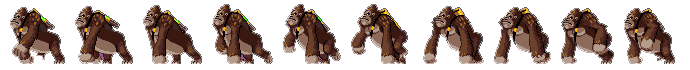
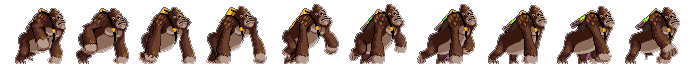
added new bullet, fixed rendering issue, monkey's action faster per upgrade as well as acttack speed(verify)

diff --git a/Classes.js b/Classes.js
@@ -94,8 +94,14 @@ World = Class.extend({
 	// new data structure
 	spawn: function(type, position) {
 		var mon = characterData.monsters[type];
+		if (type=="Gorilla") {
+			var m = new monster(mon.hp, positionData[position].x
+			, positionData[position].y-80/720*canvas.height, mon.damage,
+			mon.attackRate, mon.attackRange, mon.bulletType, (position>1 ? -mon.vx: mon.vx), mon.reward, type, mon.point);
+		}else{
 		var m = new monster(mon.hp, positionData[position].x, positionData[position].y, mon.damage,
 			mon.attackRate, mon.attackRange, mon.bulletType, (position>1 ? -mon.vx: mon.vx), mon.reward, type, mon.point);
+		}
 		this.objects[position].push(m);
 		audio.play(type);
 	},
@@ -141,21 +147,18 @@ World = Class.extend({
       renderingEngine.createMessage((50/1200*canvas.width).toString()+"px Georgia", 3,  0.33*canvas.width, 0.93*canvas.height, "You Need More Gold");
       return;
     }else{
+			monkeySpeed+=1;
 			this.money -= this.upgradeCost;
       this.upgradeCost *= 1.2;
 			this.upgradeCost = Math.ceil(this.upgradeCost/10)*10;
       ctx.fillRect(0,0,canvas.width, canvas.height);
       ctx.fillStyle = "#000000";
       ctx.fillRect(1,0.125*canvas.height+1,canvas.width-2, 0.6875*canvas.height-1);
-			characterData.monkeys["Soldier"].hp *= 1.2;
-			characterData.monkeys["Soldier"].damage *= 1.2;
-			characterData.monkeys["Soldier"].attackRate *= 1.2;
+			characterData.monkeys["Soldier"].attackRate /= 10;
 			characterData.monkeys["Soldier"].cost = Math.ceil(characterData.monkeys["Soldier"].cost*1.2/10)*10;
 			for (var i=0; i<6; i++) {
 				if (this.tree.slots[i].monkey) {
-					this.tree.slots[i].monkey.hp *= 1.2;
-					this.tree.slots[i].monkey.damage *= 1.2;
-					this.tree.slots[i].monkey.attackRate *= 1.2;
+					this.tree.slots[i].monkey.attackRate /= 10;
 				}
 			}
 			
@@ -447,7 +450,7 @@ monkey = armedBeing.extend({
   type : null,
   
   init: function(hp, slotNumber, damage, attackRate, attackRange, bulletType, cost, type) {
-    this._super(hp, SLOTS_POSITION_X[slotNumber], SLOTS_POSITION_Y[slotNumber],
+    this._super(hp, SLOTS_POSITION_X[slotNumber]+0.005*canvas.width*(slotNumber<3?-1:1), SLOTS_POSITION_Y[slotNumber],
     damage, attackRate, attackRange, bulletType);
     this.slotNumber = slotNumber;
     this.cost = cost;
@@ -508,7 +511,8 @@ monster = armedBeing.extend({
   type: null,
   render:null,
   point:null,
-
+	
+	
   init: function(hp, x, y, damage, attackRate, attackRange, bulletType, vx, reward, type, point) {
     this._super(hp, x, y, damage, attackRate, attackRange, bulletType);
     this.vx = vx/1000*frameRate;
@@ -840,6 +844,7 @@ audioManager = Class.extend({
 			this.playing[i].pause();
 		}
 		this.playing = [];
+		this.stopBackground();
 	},
 		
 	remove: function(name) {
@@ -885,7 +890,7 @@ audioManager = Class.extend({
 	}
 });
 
-imageManager = Class.extend({
+ImageManager = Class.extend({
 	collections: null,
 
 	init: function() {
@@ -1001,7 +1006,7 @@ animation = Class.extend({
 			}else this.timer -=frameRate;
 		}
 		var list = this.src[this.frame];
-		this.frame = (this.frame+1)%this.size;
+		this.frame = (this.frame+monkeySpeed)%this.size;
 		list[5] += this.from.x;
 		list[6] += this.from.y;
     //ctx.translate(canvas.width,0);

diff --git a/gamedata.js b/gamedata.js
@@ -48,7 +48,7 @@ var data = {
       damage: 80,
       attackRate: 0.5,
       attackRange: 150,
-      bulletType: "type2",
+      bulletType: "spell",
       vx: 30,
       reward: 35,
       point: 150
@@ -87,7 +87,7 @@ var data = {
       hp: 7000,
       damage: 250,
       attackRate: 3,
-      attackRange: 10,
+      attackRange: 50,
       bulletType: "type1",
       vx: 50,
       reward: 0,
@@ -106,6 +106,10 @@ var bulletData= {
 	"type2": {
 		v: 240,
 		type : "projectile"
+	},
+	"spell": {
+		v: 240,
+		type : "straight"
 	}
 }
 //---------------------------MUSIC DATA--------------------------------
@@ -222,6 +226,22 @@ var imageData = {
     sizeY: 120,
     numX: 10,
     numY: 6,
+    actualSizeX: 60,
+    actualSizeY: 60},
+	"spell" : {
+    src: "images/spell.png",
+    sizeX: 60,
+    sizeY: 60,
+    numX: 10,
+    numY: 1,
+    actualSizeX: 60,
+    actualSizeY: 60},
+	"spell1" : {
+    src: "images/spell1.png",
+    sizeX: 60,
+    sizeY: 60,
+    numX: 10,
+    numY: 1,
     actualSizeX: 60,
     actualSizeY: 60},
   "tree" : {
@@ -397,12 +417,12 @@ var imageData = {
     actualSizeY:80,
   },
   "Gorilla" :{
-    src: "images/gorilla1.png",
+    src: "images/gorilla.png",
     sizeX: 69,
     sizeY: 70,
     numX: 10,
     numY: 1,
-    actualSizeX: 160,
+    actualSizeX: 280,
     actualSizeY:280,
   },
   "Gorilla1" :{
@@ -411,7 +431,7 @@ var imageData = {
     sizeY: 70,
     numX: 10,
     numY: 1,
-    actualSizeX: 160,
+    actualSizeX: 280,
     actualSizeY:280,
   }
 }
@@ -419,7 +439,7 @@ var imageData = {
 
 levelData = {
 	1:{events:[  {time:[1, 5, 8, 10, 12, 15, 15, 20, 15, 25, 30, 35, 35, 35, 40, 45], 
-              type:["Cow", "Cow", "Cow", "Cow", "Chicken", "Cow", "Cow", "Cow", "Cow", "Chicken", "Chicken", "Cow", "Cow", "Cow", "Cow", "Chicken"], 
+              type:["Skeleton", "Skeleton", "Cow", "Cow", "Chicken", "Cow", "Cow", "Cow", "Cow", "Chicken", "Chicken", "Cow", "Cow", "Cow", "Cow", "Chicken"], 
 							position:[3, 1, 1, 2, 3, 1, 2, 3, 1,0, 2, 1, 2, 3, 0, 1],
               wait:10},
 

diff --git a/GameEngine.js b/GameEngine.js
@@ -5,10 +5,12 @@ gameEngine = Class.extend({
 	over: true,
 	loaded: 0,
 	file: null,
+	data: null,
 
 	init: function(file) {
 		this.over = true;
 		this.file = file;
+		this.data = characterData.monkeys["Soldier"].attackRate;
 		this.load();//put this as the last line
 	},
 	
@@ -16,7 +18,7 @@ gameEngine = Class.extend({
 		renderingEngine = new RenderingEngine();
 		renderingEngine.string = "Loading";
 		this.interval = setInterval(renderingEngine.loadingPage, 1000);
-		imageManager = new imageManager();
+		imageManager = new ImageManager();
 		audio = new audioManager();
 	},
 	
@@ -81,11 +83,15 @@ gameEngine = Class.extend({
 	},
 
 	restartGame: function(){
+		clearInterval(game.interval);
 		renderingEngine = new RenderingEngine();
 		game.over = true;
 		inputManager = new InputManager();
-		game.startGame(1);
+		monkeySpeed = 1;
+		//game.startGame(1);
 		audio.reset();
+		characterData.monkeys["Soldier"].attackRate = game.data;
+		game.checkLoading();
 	},
 
 	upgrade: function(){

diff --git a/RenderingEngine.js b/RenderingEngine.js
@@ -83,12 +83,6 @@ RenderingEngine = Class.extend({
     ctx.font=(15/1200*canvas.width).toString()+"px Georgia";
 
     world.bgClass.animate();
-    //render monster temporary
-    for (var i=0; i<4; i++) {
-    	for (var j=0; j<world.objects[i].length; j++) {
-    		world.objects[i][j].render.animate();
-    	}
-    }
 
     //render coins
     for (var i=0; i<world.coins.length; i++) {
@@ -99,7 +93,13 @@ RenderingEngine = Class.extend({
     //render tree
     world.tree.render.animate();
 
-
+		 //render monster temporary
+    for (var i=0; i<4; i++) {
+    	for (var j=0; j<world.objects[i].length; j++) {
+    		world.objects[i][j].render.animate();
+    	}
+    }
+		
 		 //render bullets
 		 for (var i=0; i<world.bullets.length; i++) {
 		 	world.bullets[i].render.animate();

diff --git a/main.js b/main.js
@@ -32,6 +32,7 @@ var upgradeButton = null;
 var floorPostion = null;
 var numCloud = null;
 var scoreDisplay = null;
+var monkeySpeed = 1;
 
 //------------------------------MAIN-------------------------------------
 var setup = function() {
